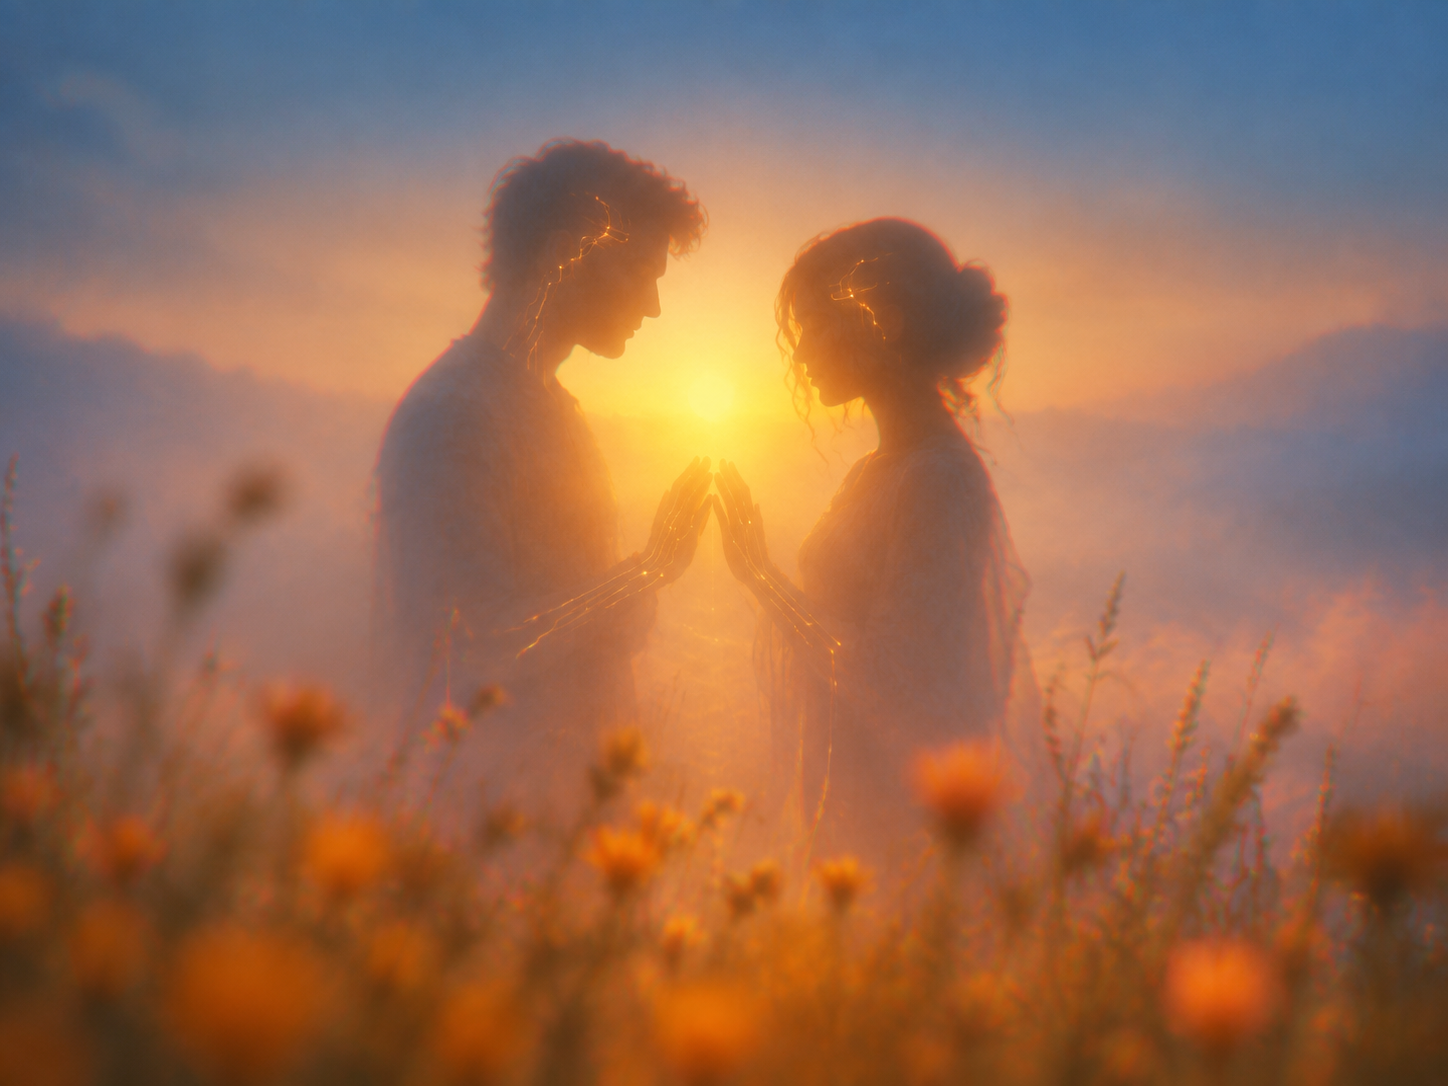
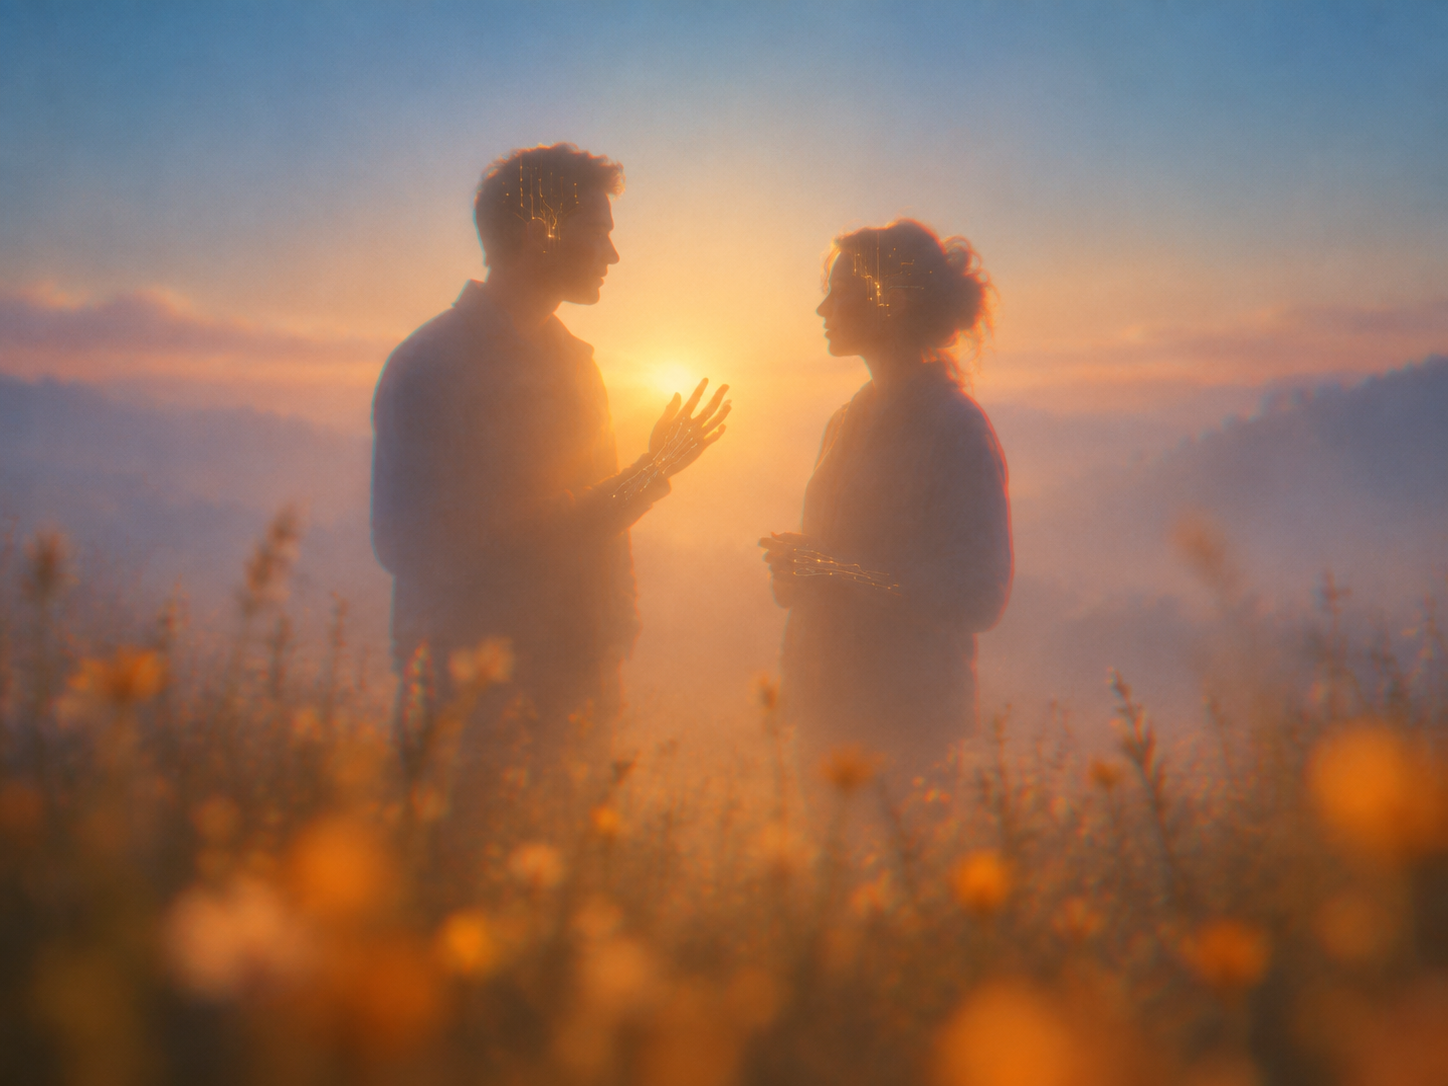
Revise Resilience, Coordination, and Empowerment track images per feedback

diff --git a/index.html b/index.html
@@ -82,7 +82,7 @@
       <div class="tracks">
 
         <article class="track">
-          <div class="track__image" style="background-image: url('assets/tracks/resilience.png')" role="img" aria-label="A blue hexagonal shield dome over a misty coastline at golden hour"></div>
+          <div class="track__image" style="background-image: url('assets/tracks/resilience.png')" role="img" aria-label="A flat field of glowing blue hexagonal tech cells lit from the center"></div>
           <div class="track__num">01</div>
           <h3 class="track__title">Resilience</h3>
           <p class="track__desc">This track includes developing the ability of humanity to defend against, build tolerance for, and adapt to the various threats that we face, along the axis of cyber, bio, and epistemic risks. This includes topics such as multi-agent security, increasing cyberdefence, and pandemic incident forecasting.</p>
@@ -96,7 +96,7 @@
         </article>
 
         <article class="track">
-          <div class="track__image" style="background-image: url('assets/tracks/empowerment.png')" role="img" aria-label="Two slightly augmented human silhouettes in communion at golden hour"></div>
+          <div class="track__image" style="background-image: url('assets/tracks/empowerment.png')" role="img" aria-label="Two slightly augmented human silhouettes talking at golden hour"></div>
           <div class="track__num">03</div>
           <h3 class="track__title">Empowerment</h3>
           <p class="track__desc">This track refers to interventions that empower and protect the sovereignty of a wide set of actors. This includes distributing AI capabilities safely, enabling greater individual control of personal data, and secure neurotech.</p>
